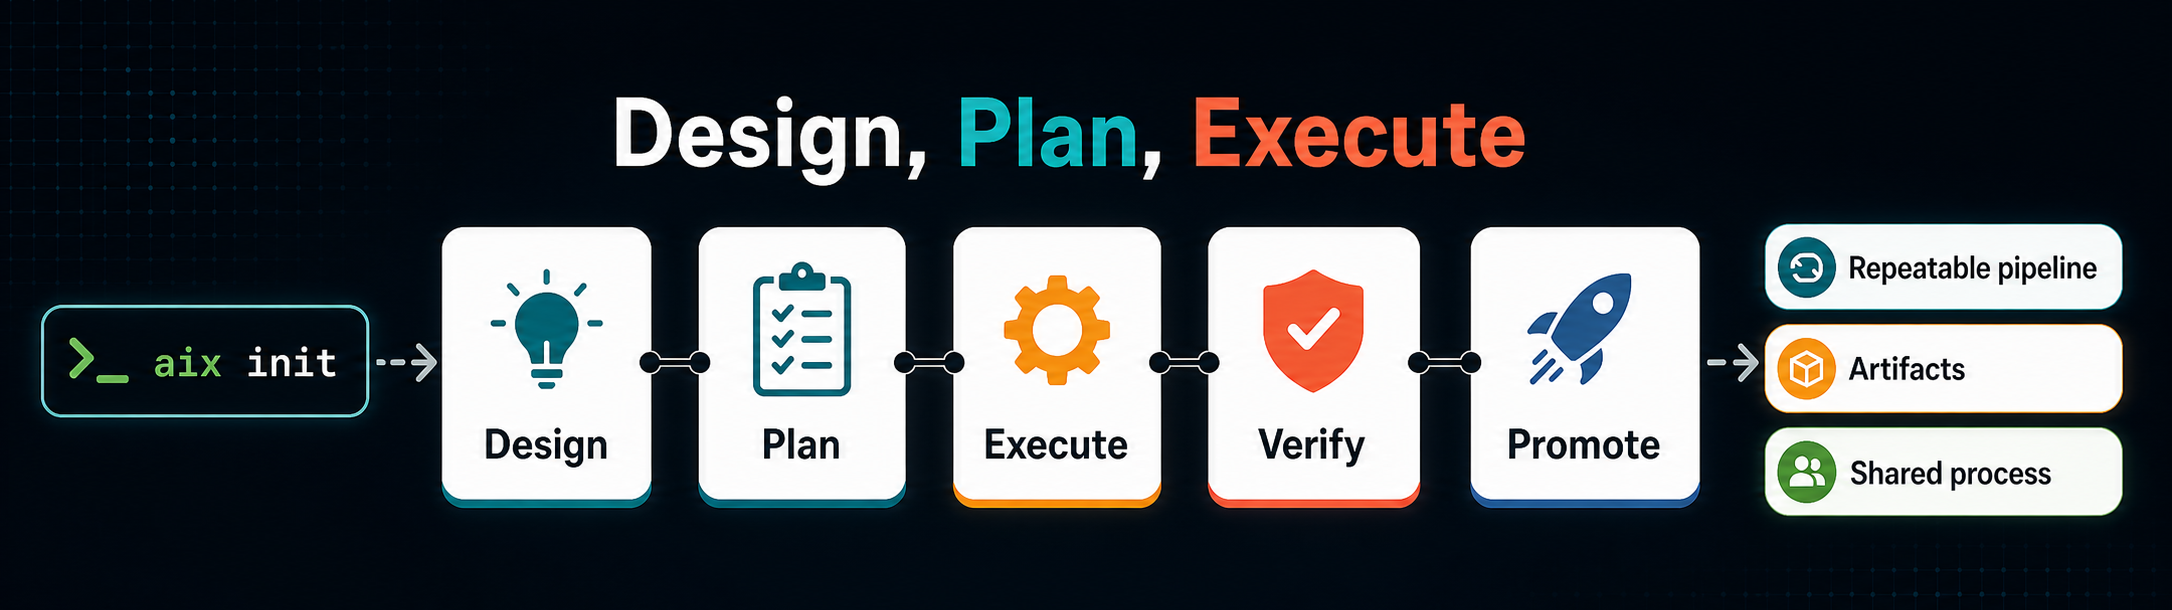
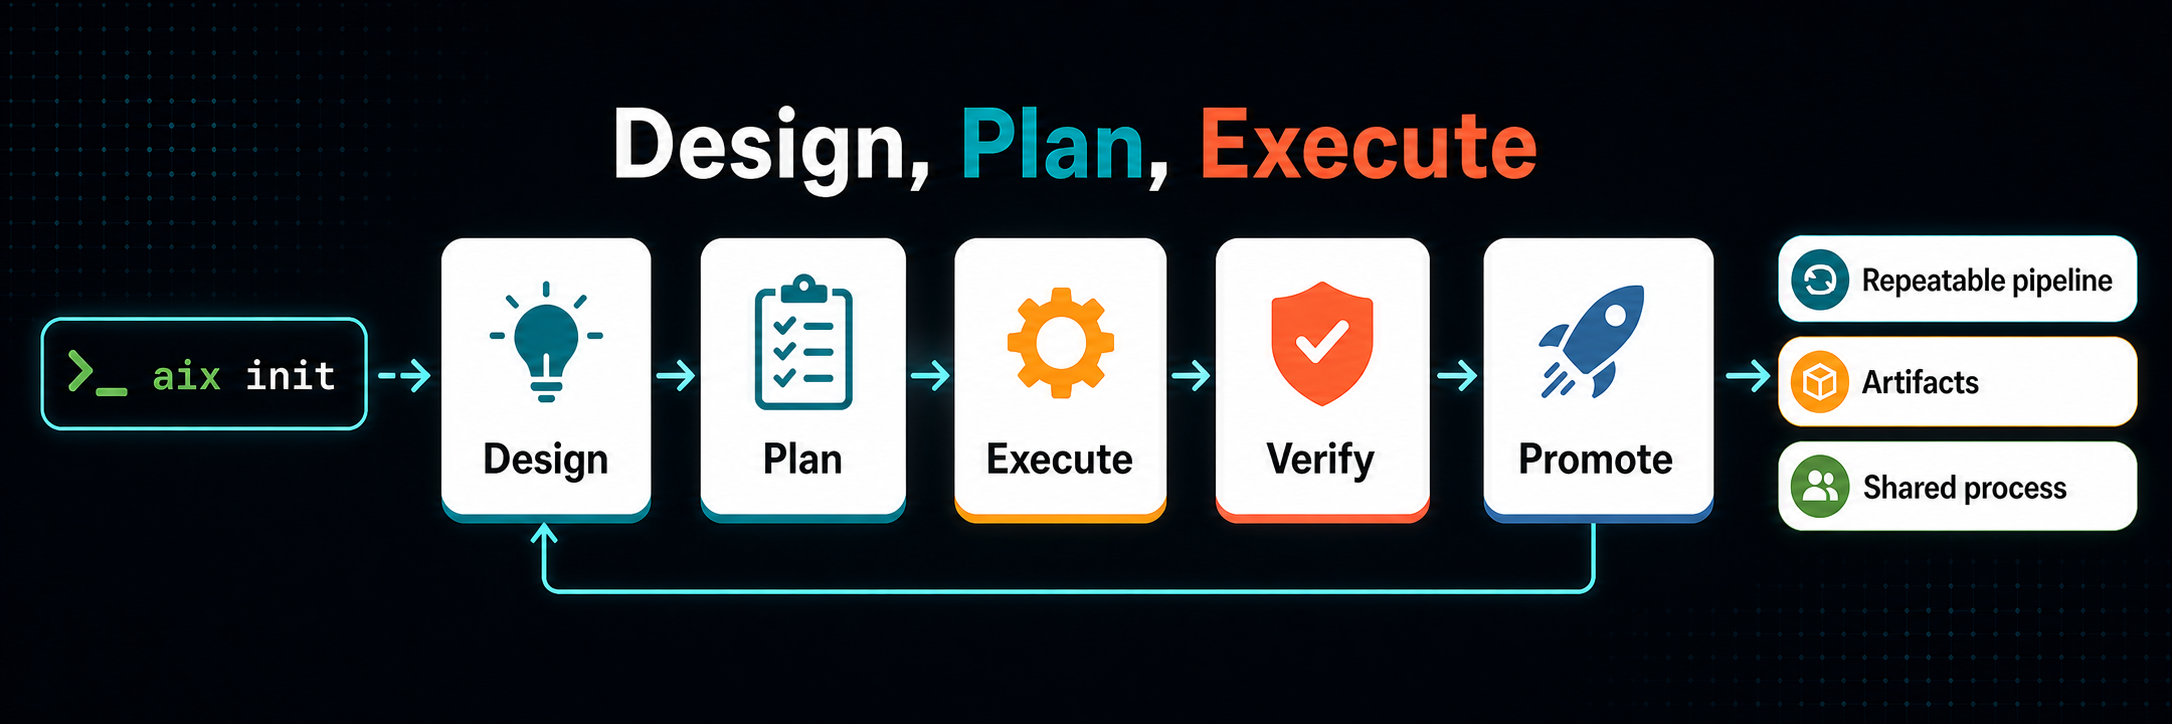
wip

Changed region(s): [[0.0, 0.1246, 0.9871, 0.8721], [0.0, 0.6541, 0.1851, 0.6852], [0.0617, 0.218, 0.0925, 0.2492]]

diff --git a/README.md b/README.md
@@ -402,111 +402,20 @@ That split also keeps updates reviewable. `aix skills diff` and
 the lockfile to decide what is still managed by `aix` and to stop before
 overwriting local edits.
 
-## Managed files
+## Familiar command patterns
 
-`aix` separates package-managed files from project-owned files.
+![Familiar command patterns summary](assets/familiar-command-patterns-summary.png)
 
-When `aix` installs a workflow or activates a skill, it keeps a local
-package-managed copy under `.agents/packages`. That copy is the stable content
-`aix` hashes, locks, diffs, updates, and checks for local drift.
+The UX is intentionally close to package managers developers already know, like
+`npm`, Composer, Bundler, or Cargo. You add sources, activate packages, review
+diffs, update locked versions, verify the installed state, and uninstall managed
+assets with explicit commands.
 
-Workflow package copies live here:
-
-```text
-.agents/packages/workflows/<source>/<workflow>/
-```
-
-Skill package copies live here:
-
-```text
-.agents/packages/skills/<source>/<skill-path>/
-```
-
-For example, when you install `design-plan-execute`:
-
-```bash
-aix workflow install https://github.com/tekfoundry/ai-extensions/tree/master/aix/workflows/design-plan-execute aix
-```
-
-`aix` creates a workflow package copy and installs the workflow-owned files:
-
-```text
-.agents/packages/workflows/aix/design-plan-execute/
-.agents/packages/workflows/aix/design-plan-execute/skills/  # workflow skill package copies
-.agents/README.md
-.agents/workflow.md
-.agents/engineering-best-practices.md
-.agents/skills/project-init  # symlink into the workflow skills directory
-.agents/skills/plan-create   # symlink into the workflow skills directory
-.agents/skills/task-execute  # symlink into the workflow skills directory
-```
-
-The `.agents/skills/*` entries above are workflow-owned skills. The full
-workflow skill list lives in the
-[design-plan-execute details](aix/workflows/design-plan-execute/README.md).
-
-For a user-activated skill, the flow is source, list, activate. For example,
-to activate `unslop` from Cursor's pstack skills:
-
-```bash
-aix skills add https://github.com/cursor/plugins/tree/main/pstack/skills cursor-pstack
-aix skills list cursor-pstack
-aix skill activate cursor-pstack/unslop
-```
-
-That creates a package copy and exposes one active skill:
-
-```text
-.agents/packages/skills/cursor-pstack/unslop/
-.agents/skills/unslop  # symlink to the package copy
-```
-
-The shared `.agents/skills` directory is the active skill set agents scan:
-
-```text
-.agents/skills/<workflow-owned-skill>
-.agents/skills/<active-name>
-```
-
-Workflow-owned skills and user-activated skills both appear there. The
-difference is ownership: workflow-owned skills are managed by the active
-workflow, while user-activated root skills are managed by `aix skill activate`
-and `aix skill deactivate`.
-
-Project-owned content:
-
-```text
-AGENTS.md outside the aix managed block
-source code, tests, and application docs
-```
-
-Workflows may also create project-owned directories. For example,
-`design-plan-execute` creates `_docs/` so the repo has a standard place for
-design docs and active, backlog, and completed plans.
-
-Here is the basic skill layout:
-
-```text
-.agents/packages/skills/team-skills/review/  # package-managed source copy
-.agents/skills/review                        # active skill link
-```
-
-When a skill is activated without an alias, `.agents/skills/<active-name>` is a
-directory symlink to the package copy under `.agents/packages/skills`. The
-active symlink gives agents one predictable directory to scan without duplicating
-the upstream package files.
-
-When a skill is activated with an alias, `aix` creates a managed active-skill
-wrapper instead of a direct symlink. That wrapper copies the package files and
-rewrites the `SKILL.md` front matter `name` to the alias, while leaving the
-upstream package copy unchanged. This is how `aix` avoids active-name collisions
-without mutating downloaded skill content.
-
-If package-managed files change locally, `aix verify` and `aix status` report
-drift. Commands that would overwrite or delete drifted files stop instead of
-guessing what to keep.
-
-## Commands
+That keeps the tool approachable even though the files it manages are new.
+Teams do not need to learn a new mental model for sharing agent behavior. The
+same habits they already use for project dependencies apply here: declare what
+the project wants, lock what was installed, review changes before accepting
+them, and stop when local edits would be overwritten.
 
 ```bash
 aix init
